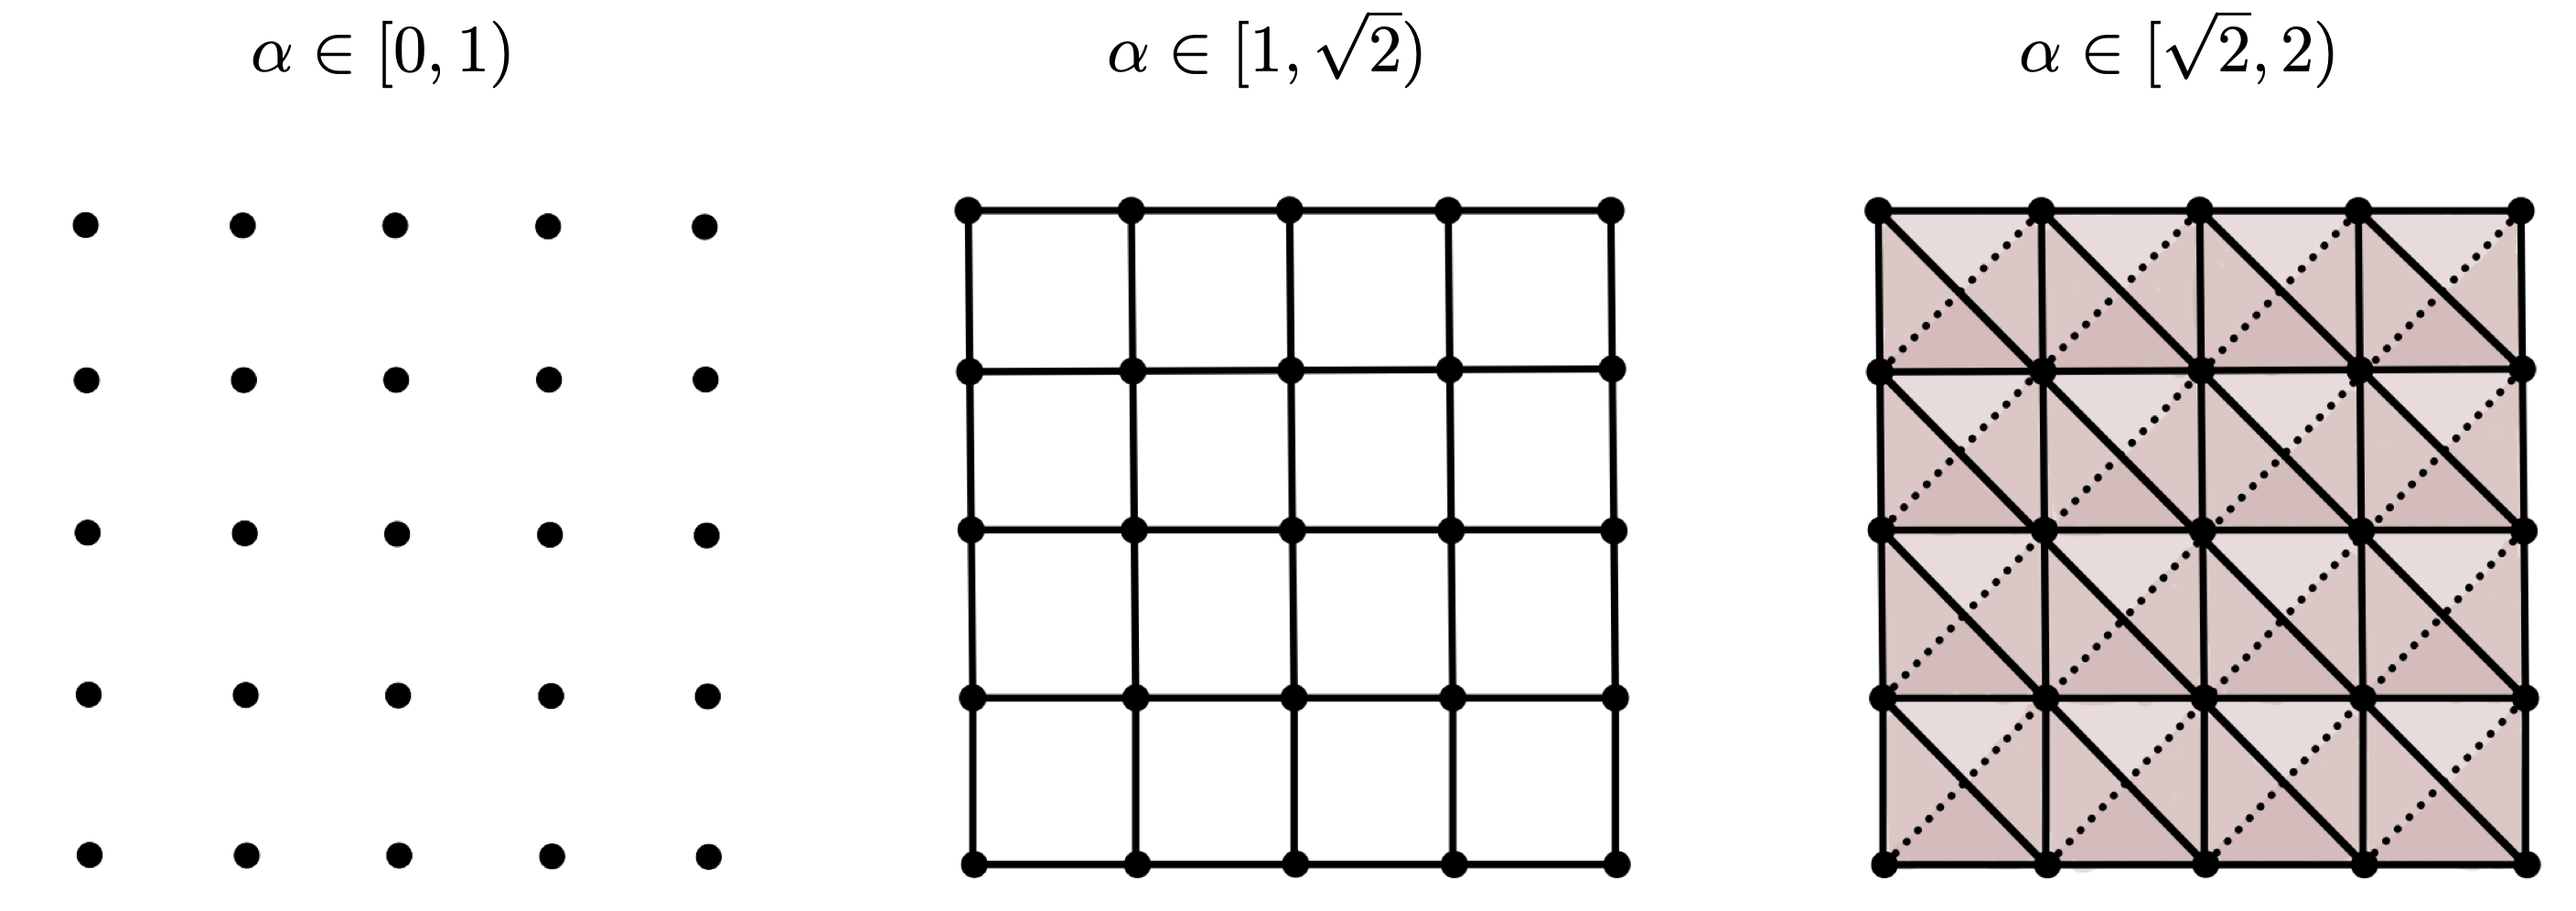
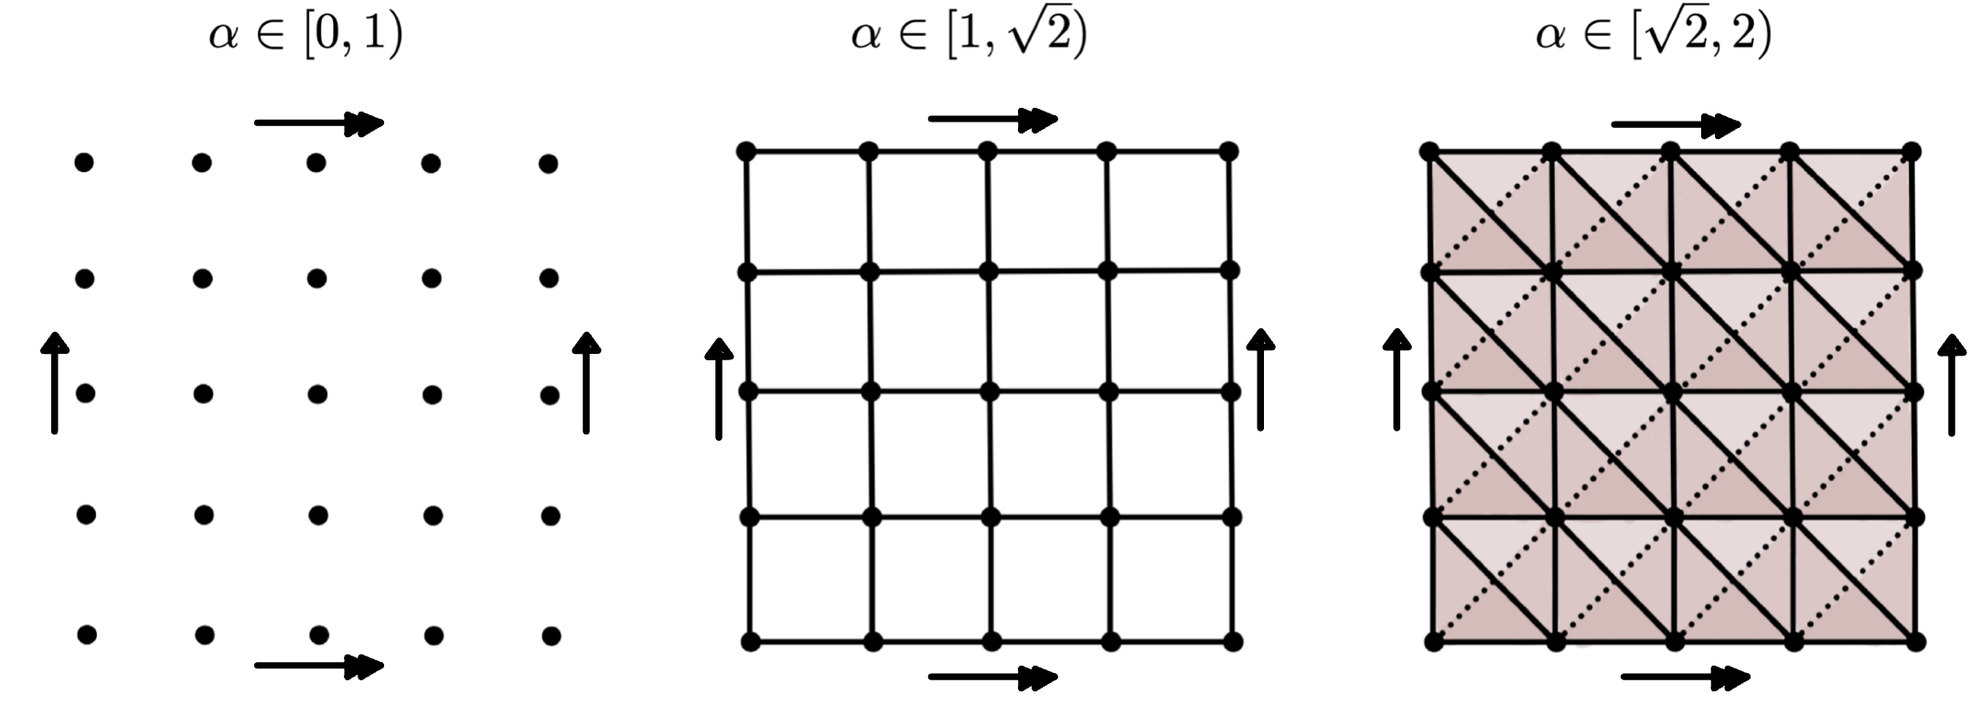
update slides persistent pi1

diff --git a/slides/PersistentPi1.html b/slides/PersistentPi1.html
@@ -81,7 +81,7 @@
 					<p style="font-size:30px;">XIMENA FERNANDEZ</p>
 					<p style="font-size:22px;">Durham University</p>
 					<p style="font-size:20px;">UK CENTRE FOR TOPOLOGICAL DATA ANALYSIS</p>
-					<p style="font-size:36px; color: #ff4040"><b>GETCO 2022</b></i></p> 
+					<p style="font-size:30px; color: #ff4040"><b>GETCO 2022 </b></p> 
 					<br>
 					<br>
 					 <p style="font-size:22px;text-align:right;"><i>Joint work with Kevin Piterman</i></p>
@@ -289,7 +289,10 @@
 					<span style="font-size: 22px; text-align:left;">
 					<div class="column_65">
 						<p><b>Vietoris–Rips filtration</b></p>
+						<br>
 						<img width="600" height = auto src='media_perspi1/VR_wedge.png'/ class="center"> 
+						<br>
+						<br>
 						<img width="600" height = auto src='media_perspi1/VR_torus.png'/ class="center"> 
 					</div>
 
@@ -563,7 +566,7 @@
 
 				
 				<section data-auto-animate>
-				<h5>Discrete Morse Theory & Internal collapsess</h5>
+				<h5>Discrete Morse Theory & Internal collapses</h5>
 				<span style="font-size: 24px; text-align:left;"> 
 				
 				<p style="padding: 6px; border: 2px solid black;"><b><span style = "color: #ff4040">Lemma </span>(Internal collapse):</b>  Let $K$ be a CW-complex of dimension  $\leq n$. Let $\varphi:\partial D^n\to K$ be the 
@@ -801,7 +804,8 @@
 							<br>
 							<li> A Morse function with a <b>single critical  0-cell</b> determines a <b>spanning tree</b> on $K^{(1)}$.</li>
 							<br>
-							<li> The <b>internal collapse</b> induced by every pair of matched cells $(x,e)$ of dim 1 and 2 determines a <b>rewriting</b> in the attaching map of every 2-cell.
+							<li> The <b>internal collapses</b> induced by every pair of matched cells $(x,e)$ of <b>dim 1 and 2</b> determines a <b>rewriting</b> in the attaching map of every <b>2-cell</b>. 
+								<br>They can be performed in <b>any order</b>.
 								<!--<p class="fragment" style = "color: grey; font-size: 22px"><i> Given a relator $r=w_1x^{\epsilon}w_2$ and a generator $x$ that appears neither in
 								$w_1$ nor in $w_2$ and $\epsilon=\pm 1$, the <b>equivalent expression $\omega(x,r)$ of $x$ induced by $r$</b>
 								is defined as $(w_1^{-1}w_2^{-1})^{\epsilon}$.</i></p>-->
@@ -1342,7 +1346,7 @@
 					<div class="column_65">
 						<p><b>Persistent fundamental group</b></p>
 						<img width="600" height = auto src='media_perspi1/perspi1_wedge.png'/ class="center"> 
-					<img width="520" height = auto src='media_perspi1/perspi1_torus.png'/ class="center"> 
+					<img width="520" height = auto src='media_perspi1/VR_torus_morse_pi1.png'/ class="center"> 
 					</div>
 
 		 	 		<div class="column_35">
@@ -1360,10 +1364,28 @@
 					<ul>
 					<li> <b style = "color: #ff4040">Canonical Morse functions</b> for Vietoris-Rips filtrations of point clouds.</li>
 					<li> <b style = "color: #ff4040">Stability</b> to small perturbations. </li>
-					<li> <b style = "color: #ff4040">Barcode</b> decompositions (interaction with Persistent Homology).</li>
+					<li> <b style = "color: #ff4040">Barcode</b> decompositions (interaction with <b>Persistent Homology</b>).</li>
 					<li> Persistence of <b style = "color: #ff4040">group properties</b>.</li>
-					<li> <b style = "color: #ff4040">Implementation</b> in GAP. </li>
+					<li> <b style = "color: #ff4040">Implementation</b> in <b>GAP</b>. </li>
 					<li> Applications in <b style = "color: #ff4040"> real data</b>.</li>
+					</ul>
+					</span>
+				</section>
+
+				<section data-auto-animate> 
+					<h4>References</h4>
+					<span style="font-size: 22px; text-align:left;">
+					<br>
+					<br>
+					<ul>
+					<li> X. Fernandez, <b>Combinatorial methods and algorithms in low-dimensional topology and the
+					Andrews-Curtis conjecture.</b> PhD thesis, University
+					of Buenos Aires (2017)</li>
+					<br>
+					<li> X. Fernandez, <b>Morse theory for group presentations</b> (2019) arXiv:1912.00115</li>
+					<br>
+					<li> X. Fernandez and K. Piterman, <b>The persistent fundamental group of point clouds</b> (2022) (In preparation) </li>
+
 					</ul>
 					</span>
 				</section>

diff --git a/slides/PersistentHomology.html b/slides/PersistentHomology.html
@@ -933,11 +933,11 @@
 
 				<section>
 
-					<section data-auto-animate> <h3>  Take away messages</h3>
+					<section data-auto-animate> <h3>  Take-home messages</h3>
 						
 					</section>
 
-					<section data-auto-animate> <h3>  Take away messages</h3>
+					<section data-auto-animate> <h3>  Take-home messages</h3>
 						<span style="font-size: 22px">
 						<ul>
 							<li> Topological spaces can be encoded combinatorially as <b style="color: #fe6e61;">simplicial complexes</b></li>
@@ -948,7 +948,7 @@
 					</span>
 					</section>
 
-					<section data-auto-animate> <h3>  Take away messages</h3>
+					<section data-auto-animate> <h3>  Take-home messages</h3>
 						<span style="font-size: 22px">
 						<ul>
 							<li> Topological spaces can be encoded combinatorially as <b>simplicial complexes</b></li>
@@ -963,7 +963,7 @@
 					</span>
 					</section>
 
-					<section data-auto-animate> <h3>  Take away messages</h3>
+					<section data-auto-animate> <h3>  Take-home messages</h3>
 						<span style="font-size: 22px">
 						<ul>
 							<li> Topological spaces can be encoded combinatorially as <b>simplicial complexes</b></li>
